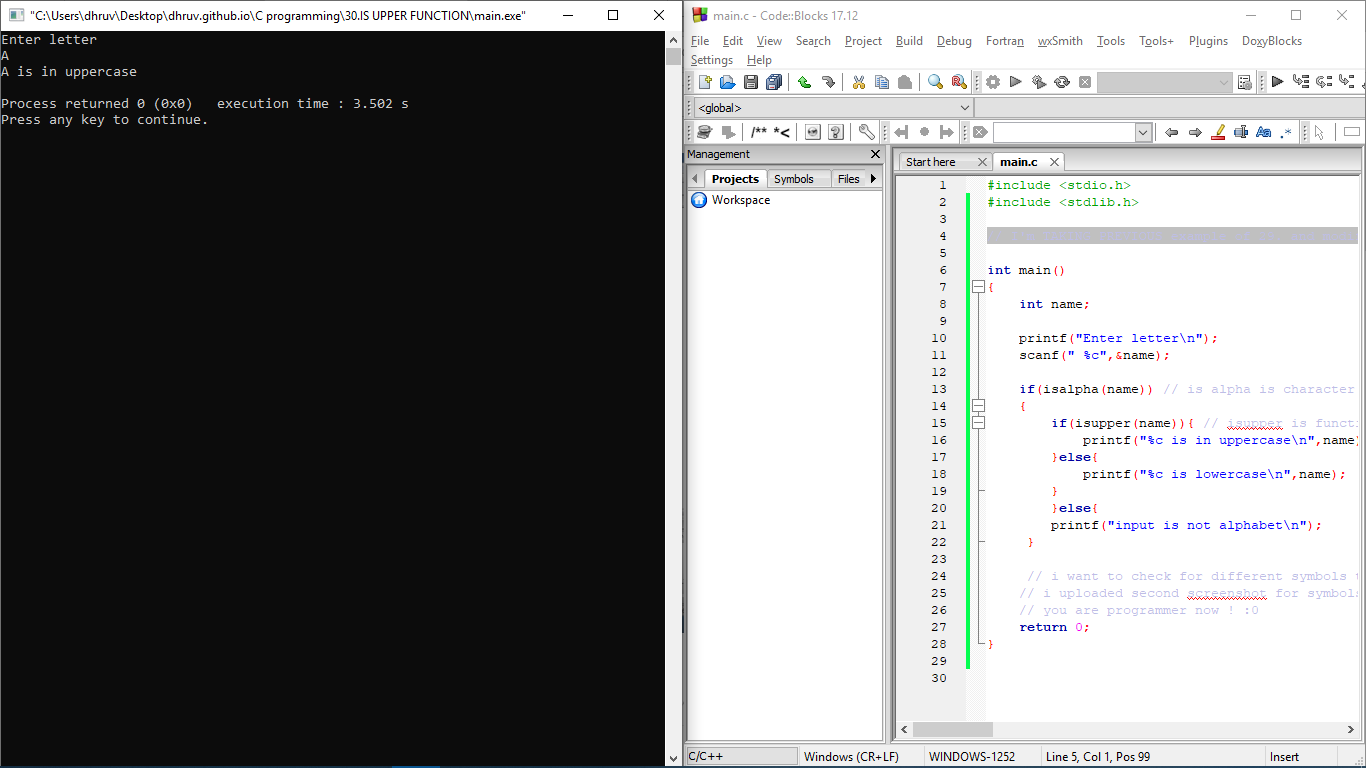
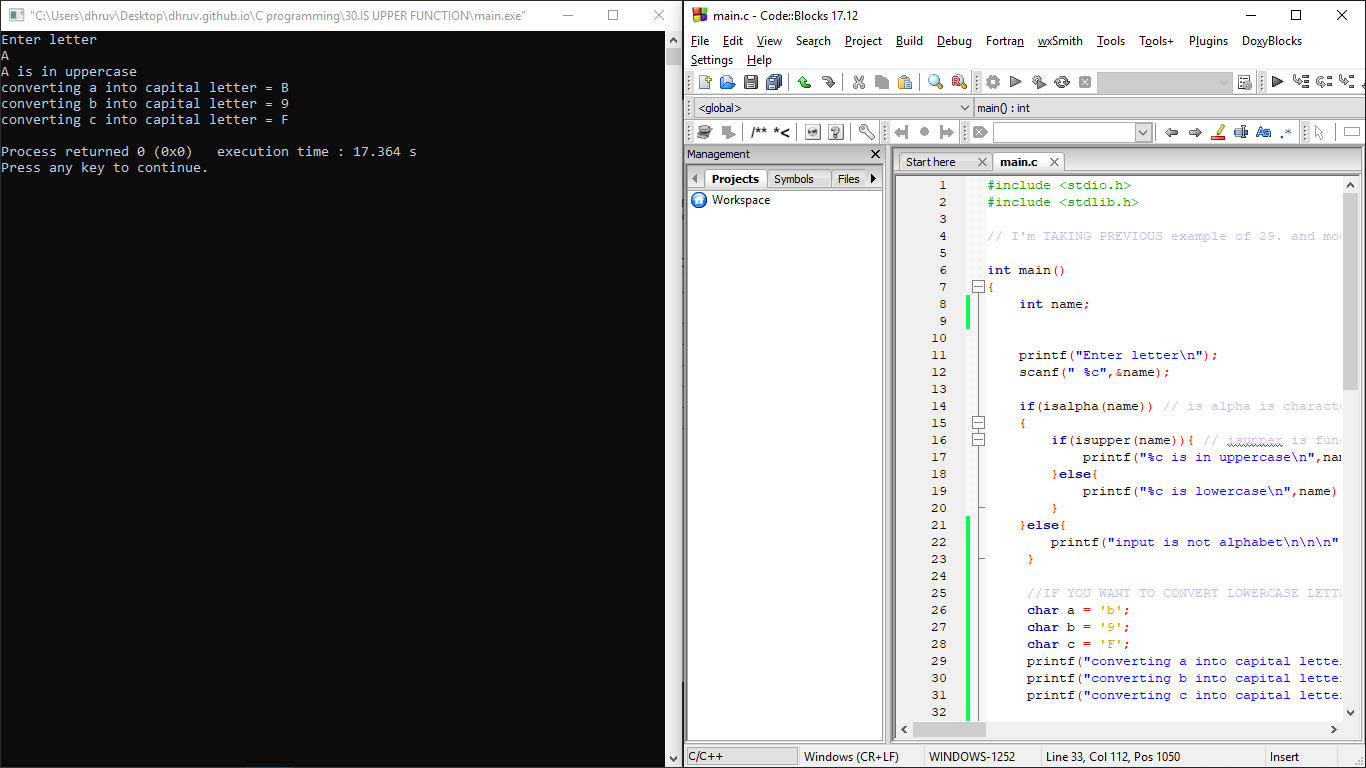
CHANGES

diff --git a/C programming/30.IS UPPER FUNCTION/main.c b/C programming/30.IS UPPER FUNCTION/main.c
@@ -7,6 +7,7 @@ int main()
 {
     int name;
 
+
     printf("Enter letter\n");
     scanf(" %c",&name);
 
@@ -17,18 +18,30 @@ int main()
         }else{
             printf("%c is lowercase\n",name);
         }
-        }else{
-        printf("input is not alphabet\n");
+    }else{
+        printf("input is not alphabet\n\n\n");
      }
+
+     //IF YOU WANT TO CONVERT LOWERCASE LETTER IN UPPERCASE ,YOU CAN USE " TOUPPER() "
+     char a = 'b';
+     char b = '9';
+     char c = 'F';
+     printf("converting a into capital letter = %c\n",toupper(a));
+     printf("converting b into capital letter = %c\n",toupper(b));
+     printf("converting c into capital letter = %c\n",toupper(c));
+
+     //you will see it will not do any change in uppercases or Numbers . it will only change in small alphabets
 
      // i want to check for different symbols too,
     // i uploaded second screenshot for symbols , obviously it will print out last statement
     // you are programmer now ! :0
 
+
+    /////////FOR PRACTISE
     //so lets try something new , create a password which include numbers , alphabet and the symbols and executes only if three of them included
     //i want to put your own logic , because we can do this by different methods we learn so far ,
 
-    int alphabet;
+    /*int alphabet;
     int symbol;
     int number;
 
@@ -63,7 +76,7 @@ int main()
             (isalpha(alphabet)) ? printf("Your password is Set!") : printf("Dump password");
         }
     }
-    }
+    }*/
     return 0;
 }
 
